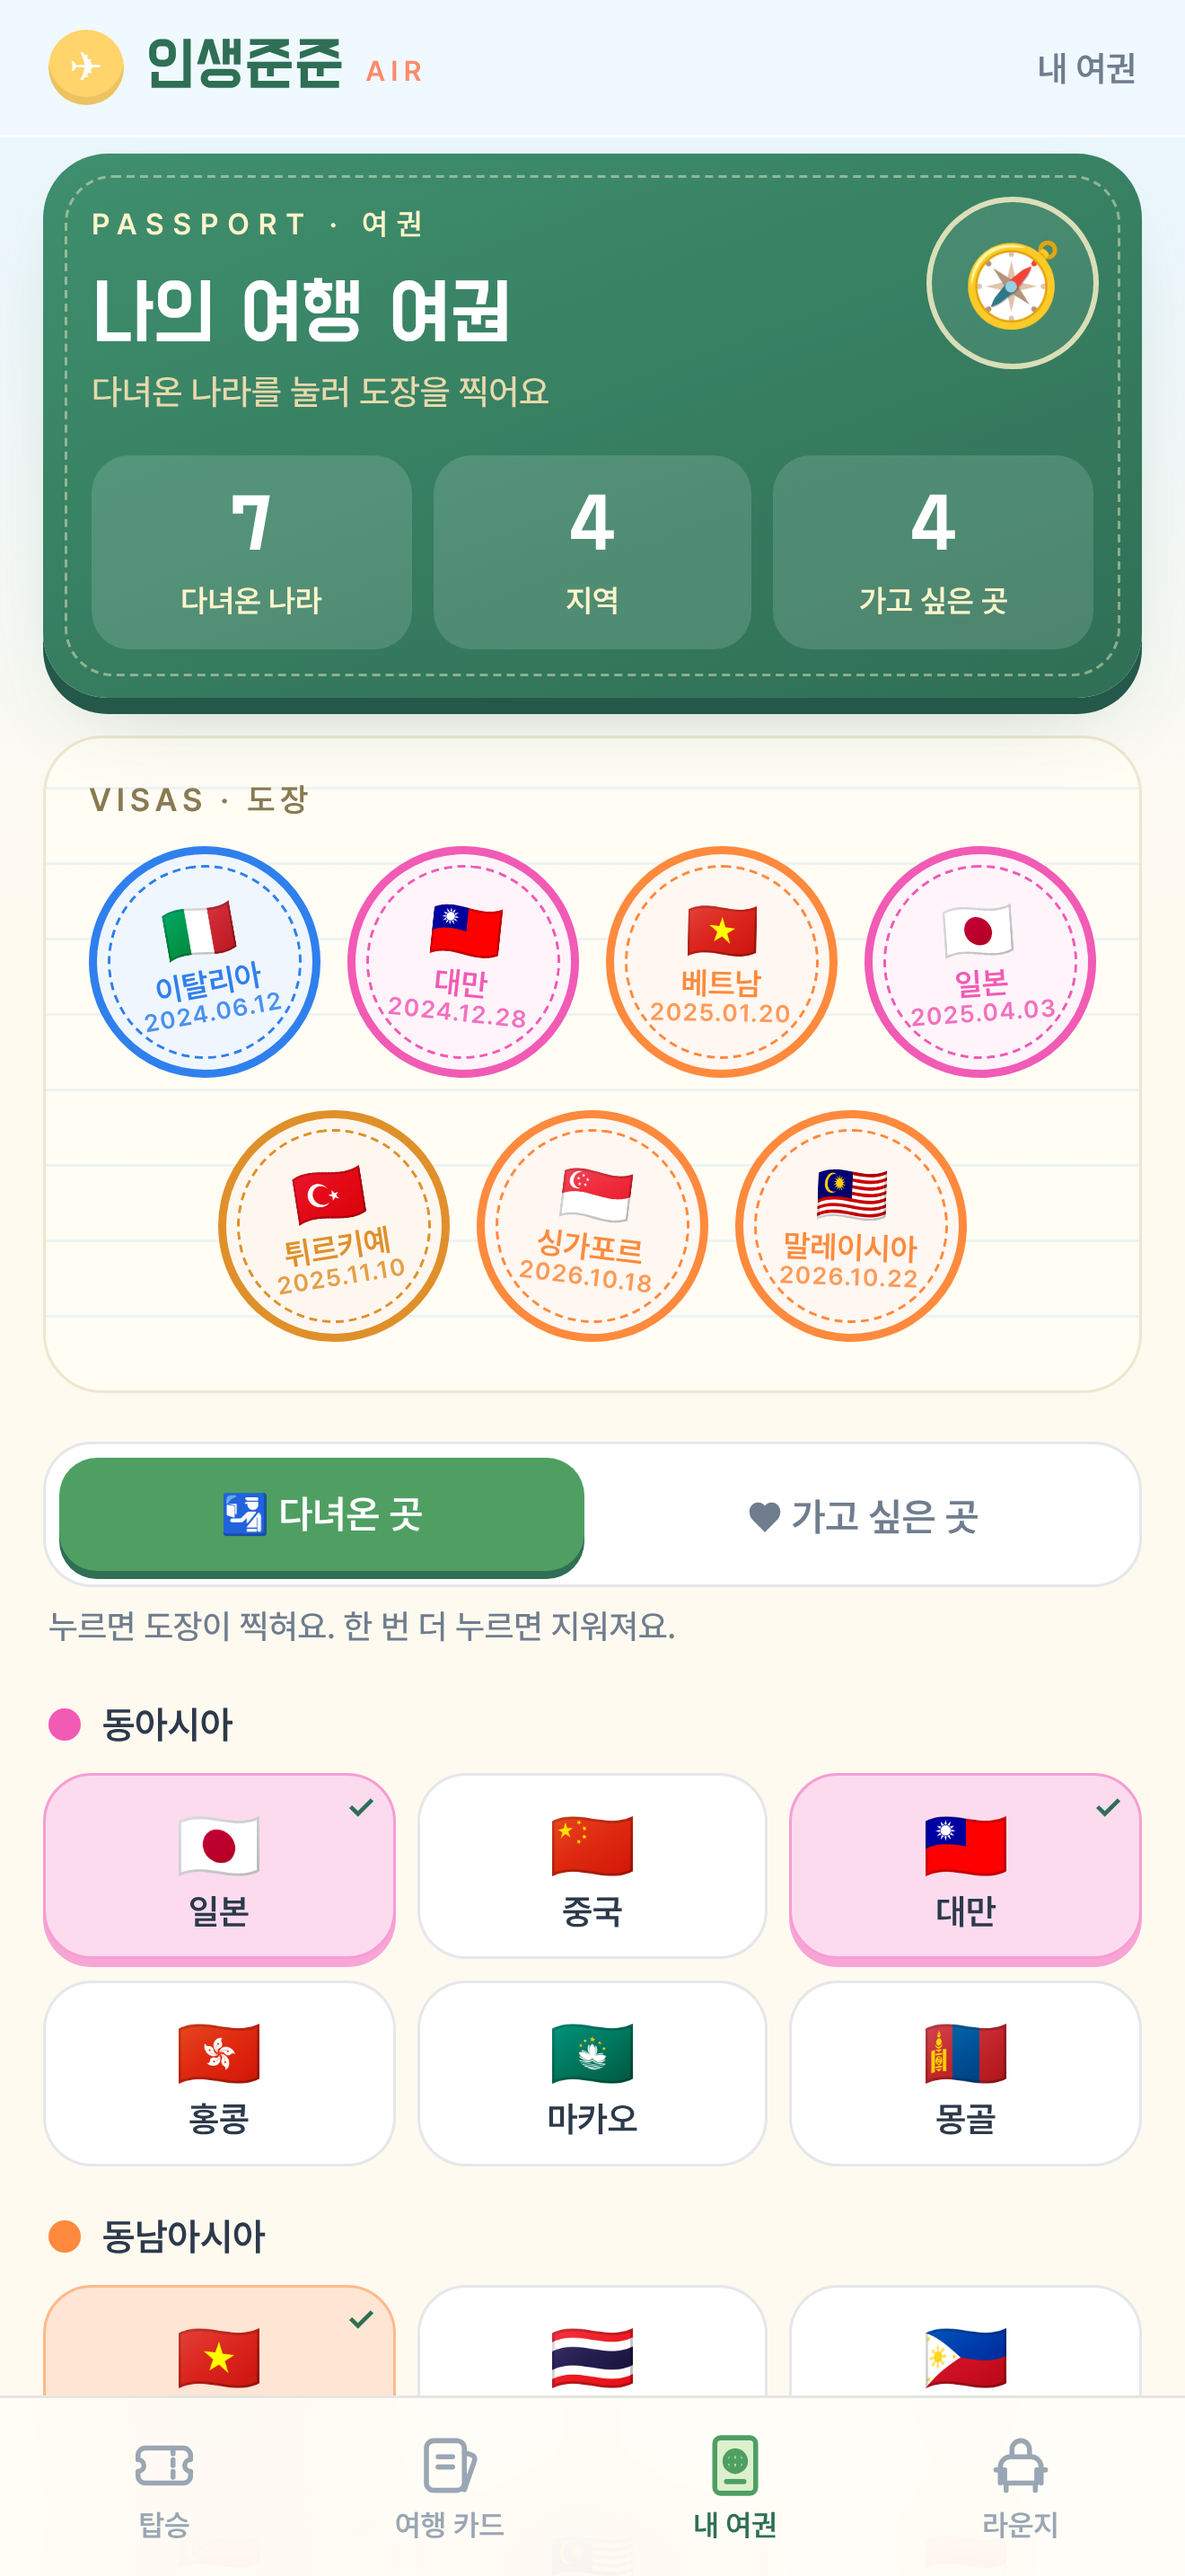
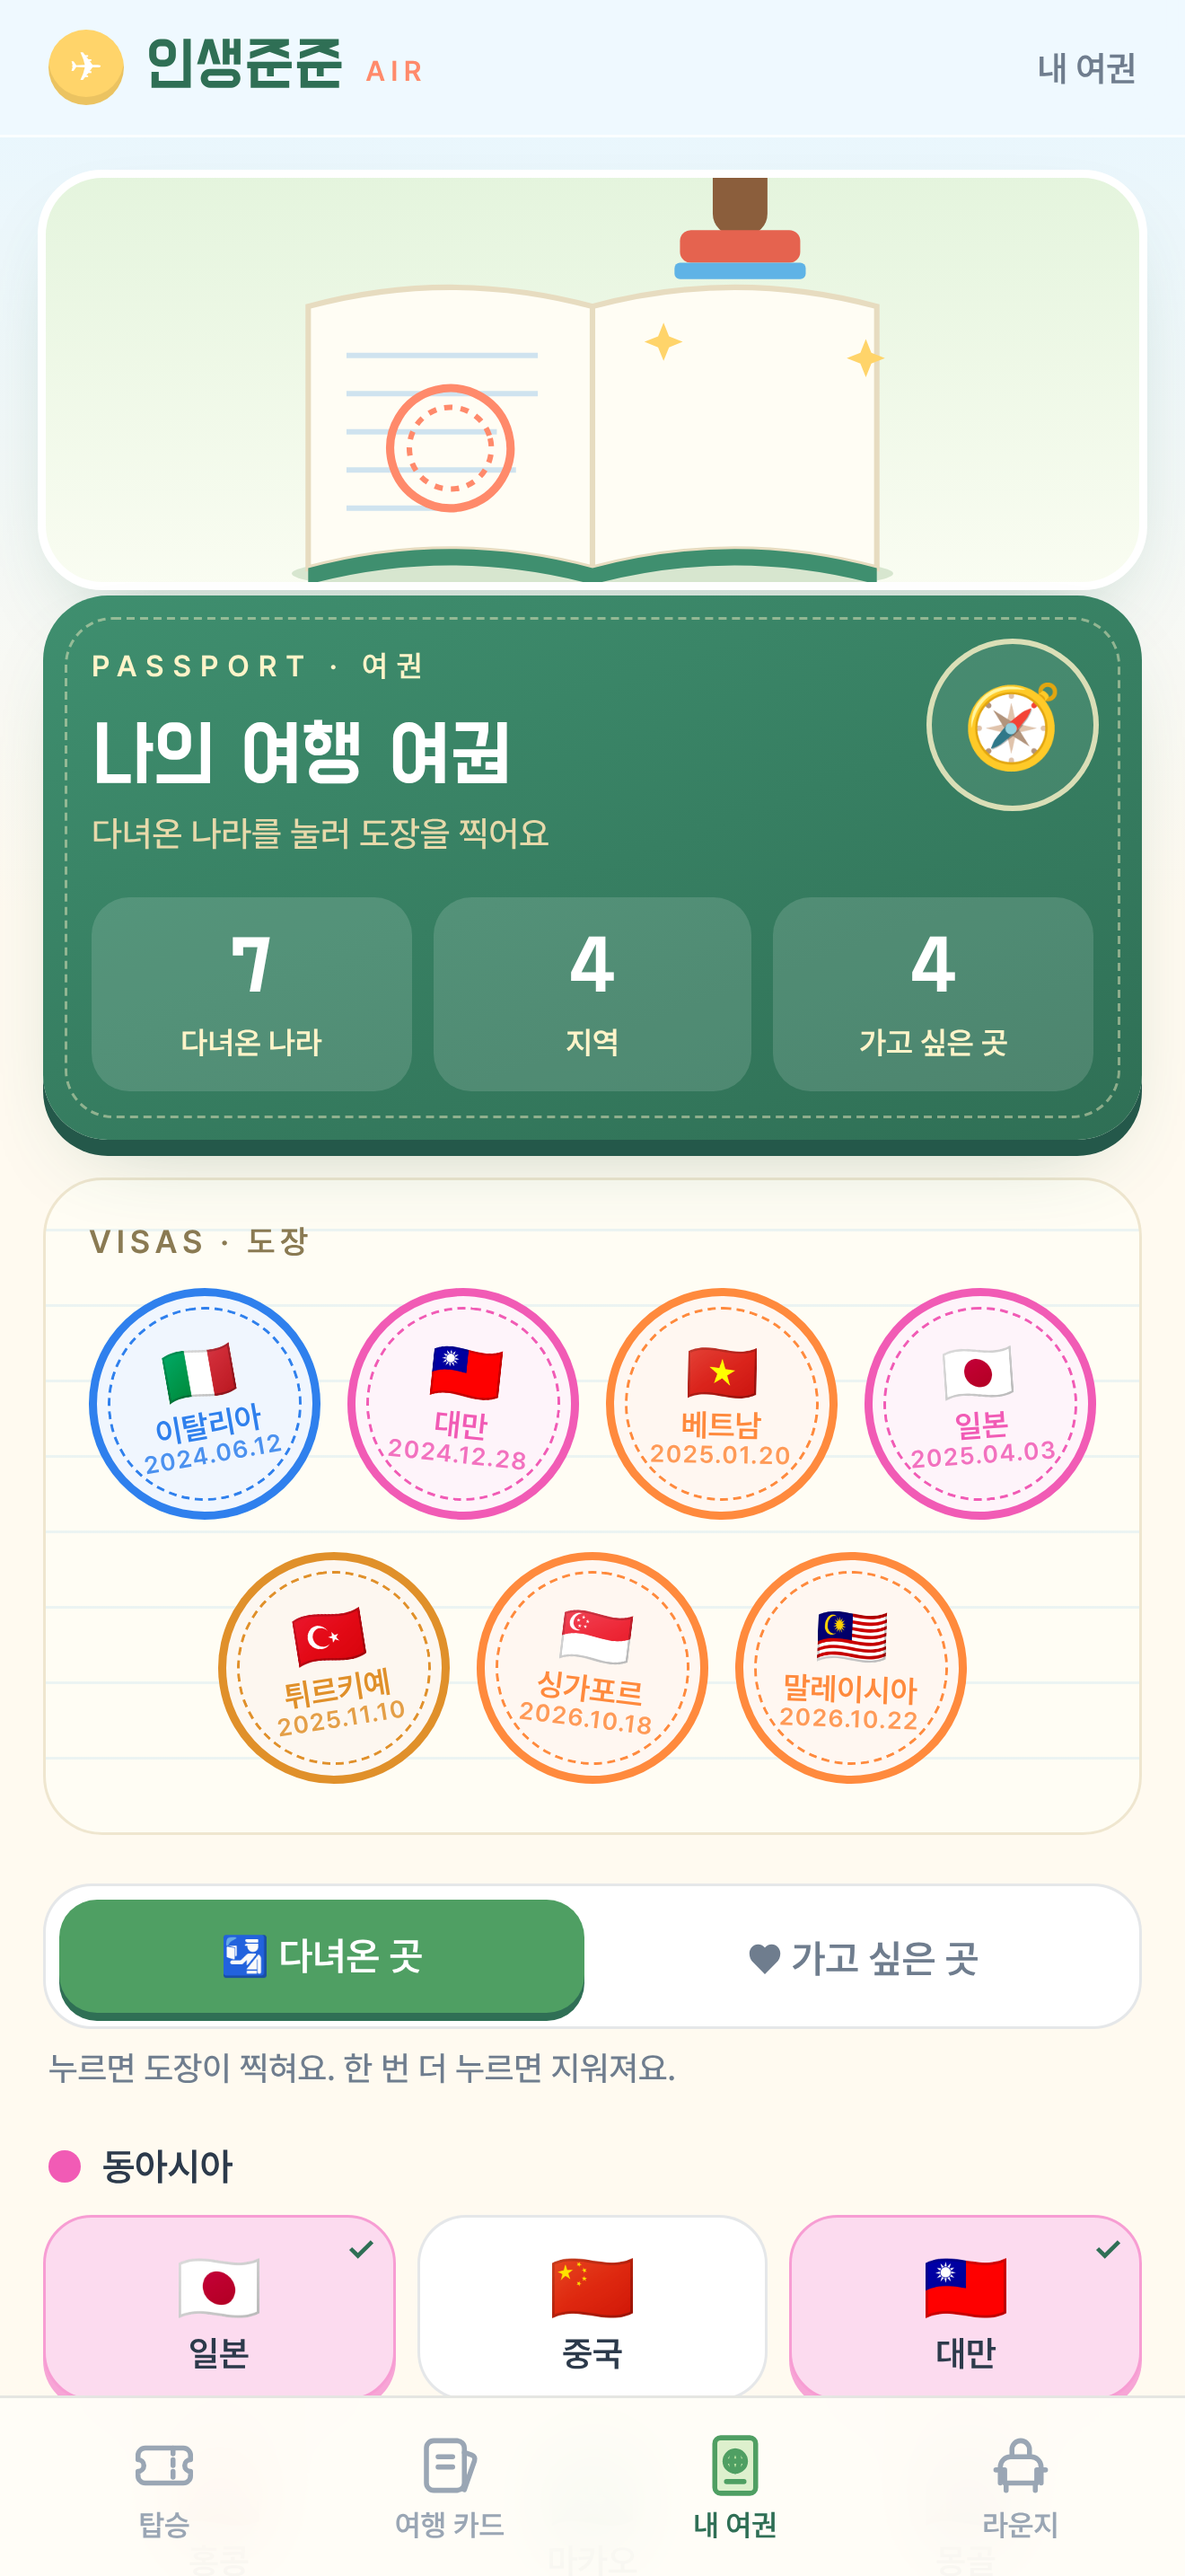
인생준준 앱 고도화: 움직이는 그림(풍경 속 구름·비행기·새·굴뚝 연기, 여행 카드 가방, 여권 도장 찍기, 라운지 열기구), 탑승권 비행기, 상세 구름, 신청 완료 꽃가루, 스크롤 등장
Claude-Session: https://claude.ai/code/session_018b66DNBEchiBczdhfNMBRw

diff --git a/app/src/app.js b/app/src/app.js
@@ -56,12 +56,15 @@
     $("#topTitle").textContent = TITLES[t];
     render(); window.scrollTo(0, 0);
   }
-  function render() {
+  function render(quiet) {
     var v = $("#view");
     if (state.tab === "home") v.innerHTML = viewHome();
     else if (state.tab === "cards") v.innerHTML = viewCards();
     else if (state.tab === "passport") v.innerHTML = viewPassport();
     else v.innerHTML = viewLounge();
+    if (quiet) return;
+    v.classList.remove("enter"); void v.offsetWidth; v.classList.add("enter");
+    reveal(v);
   }
 
   function dday(start) {
@@ -77,6 +80,7 @@
       '<h1>혼자 가긴 무섭고,<br>단체 패키지는 싫다면</h1>' +
       '<p>먼저 공부해 온 길동무와 3~10명이 함께 걷는 작은 여행이에요. 유적은 깊게, 박물관은 천천히, 밥은 현지 사람들이 줄 서는 곳에서.</p>' +
       '<div class="row"><span class="chip">🧭 3명 모이면 출발</span><span class="chip">🙋 혼자 와도 돼요</span><span class="chip">✍ 관심 신청은 결제 아니에요</span></div></div></section>' +
+      '<div class="flyline" aria-hidden="true"><img src="img/fly.svg" alt=""></div>' +
       '<div class="sec-t">탑승 대기 중인 여행 <small>' + t.length + '편</small></div>' +
       '<div class="passes">' + t.map(function (x) {
         return '<button class="pass" data-trip="' + esc(x.id) + '" style="--g1:' + x.grad[0] + ';--g2:' + x.grad[1] + '" aria-label="' + esc(x.country + " 여행 자세히 보기") + '">' +
@@ -98,7 +102,7 @@
     var s = $("#sheet");
     s.style.setProperty("--g1", x.grad[0]); s.style.setProperty("--g2", x.grad[1]);
     s.innerHTML = '<button class="close" data-close aria-label="닫기">✕</button>' +
-      '<div class="d-hero" style="background-image:url(' + esc(x.img) + ')"><img class="clouds" src="img/cloudband.svg" alt=""></div>' +
+      '<div class="d-hero" style="background-image:url(' + esc(x.img) + ')"><img class="clouds c2" src="img/cloudband.svg" alt=""><img class="clouds" src="img/cloudband.svg" alt=""></div>' +
       '<div class="d-body"><div class="d-title"><div class="eyebrow">' + x.flag + ' ' + esc(x.country) + ' · ' + esc(x.city) + '</div><h2>' + esc(x.en) + '</h2><div><span class="chip">' + dday(x.start) + '</span></div></div>' +
       '<div class="meta"><div><div class="k">출발 후보일</div><div class="v">' + esc(x.dates) + '</div></div><div><div class="k">기간</div><div class="v">' + esc(x.nights) + '</div></div><div><div class="k">인원</div><div class="v">' + esc(x.group) + '</div></div></div>' +
       '<div class="d-lead">' + esc(x.lead) + '</div>' +
@@ -113,6 +117,7 @@
       '<div class="credit">사진 · ' + esc(x.credit) + ' — 여행지를 이해하기 위한 자료 사진이에요.</div></div>' +
       '<div class="cta-bar"><button class="btn" data-apply="' + esc(x.id) + '">✈ ' + esc(x.country) + ' 관심 신청하기</button><small>결제 아님 · 이름과 연락처만 · 30초</small></div>';
     s.hidden = false; s.scrollTop = 0; document.body.style.overflow = "hidden";
+    reveal(s);
     try { history.pushState({ sheet: id }, ""); } catch (e) {}
   }
   function faq(q, a) { return '<details><summary>' + esc(q) + '</summary><p>' + esc(a) + '</p></details>'; }
@@ -155,7 +160,7 @@
     if (ok) {
       haptic("ok");
       var applied = store.get("applied", []); if (applied.indexOf(x.id) < 0) applied.push(x.id); store.set("applied", applied);
-      s.innerHTML = '<button class="close" data-close aria-label="닫기">✕</button><div class="d-body done" style="padding-top:calc(var(--st) + 60px)"><div class="big-stamp">신청<br>완료</div>' +
+      s.innerHTML = '<div class="confetti" aria-hidden="true">' + confetti() + '</div><button class="close" data-close aria-label="닫기">✕</button><div class="d-body done" style="padding-top:calc(var(--st) + 60px)"><div class="big-stamp">신청<br>완료</div>' +
         '<h2 class="h1">' + esc(x.country) + ' 탑승 대기 명단에 올렸어요</h2><p class="lede">24시간 안에 남겨주신 연락처로 연락드릴게요. 새 여행 소식은 카카오톡 공지방에서 먼저 받아보세요.</p>' +
         '<div class="alt"><button class="btn" data-url="' + KAKAO + '">💬 카카오톡 공지방</button><button class="btn ghost" data-close>확인</button></div></div>';
     } else {
@@ -168,12 +173,25 @@
     s.scrollTop = 0;
   }
 
+  function confetti() {
+    var c = ["#ff8a6b", "#ffd46a", "#9fd67f", "#5fb3e6", "#b7a6f2", "#f58eaa"], out = "";
+    for (var i = 0; i < 36; i++) out += '<i style="left:' + ((i * 37) % 100) + '%;background:' + c[i % c.length] + ';animation-delay:' + ((i % 9) * 0.08).toFixed(2) + 's;--dx:' + (((i * 53) % 60) - 30) + 'px;--rot:' + ((i * 97) % 360) + 'deg"></i>';
+    return out;
+  }
+
+  /* 화면에 들어올 때 살짝 떠오르기 */
+  var io = window.IntersectionObserver ? new IntersectionObserver(function (es) { es.forEach(function (e) { if (e.isIntersecting) { e.target.classList.add("in"); io.unobserve(e.target); } }); }, { rootMargin: "0px 0px -8% 0px" }) : null;
+  function reveal(root) {
+    if (!io) return;
+    Array.prototype.forEach.call((root || document).querySelectorAll(".pass,.tcard,.see>div,.flow li,.link,.about"), function (el, i) { el.classList.add("rv"); el.style.setProperty("--d", (Math.min(i, 8) * 40) + "ms"); io.observe(el); });
+  }
+
   /* ── 여행 카드 ── */
   function viewCards() {
     var cards = DATA.cards || [], saved = store.get("saved", []);
     var places = ["전체", "저장"].concat(cards.map(function (c) { return c.place; }).filter(function (p, i, a) { return a.indexOf(p) === i; }));
     var list = cards.filter(function (c) { return state.cardFilter === "전체" || (state.cardFilter === "저장" ? saved.indexOf(c.id) > -1 : c.place === state.cardFilter); });
-    return '<h1 class="h1">가기 전에 알면<br>덜 당황하는 것들</h1><p class="lede">나라별 매너·벌금·꿀팁 카드예요. 인터넷이 없어도 열려요. ♥ 를 누르면 저장돼요.</p>' +
+    return '<div class="banner"><img src="img/cards.svg" alt=""></div><h1 class="h1">가기 전에 알면<br>덜 당황하는 것들</h1><p class="lede">나라별 매너·벌금·꿀팁 카드예요. 인터넷이 없어도 열려요. ♥ 를 누르면 저장돼요.</p>' +
       '<div class="filters" role="tablist">' + places.map(function (p) { return '<button role="tab" data-filter="' + esc(p) + '" class="' + (p === state.cardFilter ? "on" : "") + '">' + (p === "저장" ? "♥ 저장 " + saved.length : esc(p)) + '</button>'; }).join("") + '</div>' +
       (list.length ? '<div class="tcards">' + list.map(function (c) {
         var on = saved.indexOf(c.id) > -1;
@@ -189,7 +207,7 @@
     var visited = store.get("visited", {}), wish = store.get("wish", []);
     var codes = Object.keys(visited).filter(function (k) { return CTY[k]; }).sort(function (a, b) { return visited[a] < visited[b] ? -1 : 1; });
     var regions = codes.map(function (k) { return CTY[k].region; }).filter(function (r, i, a) { return a.indexOf(r) === i; });
-    return '<section class="pp-cover"><div class="t">PASSPORT · 여권</div><h2>나의 여행 여권</h2><div style="font-size:13px;color:#e7d9aa">다녀온 나라를 눌러 도장을 찍어요</div><div class="emb" aria-hidden="true">🧭</div>' +
+    return '<div class="banner"><img src="img/passport.svg" alt=""></div><section class="pp-cover"><div class="t">PASSPORT · 여권</div><h2>나의 여행 여권</h2><div style="font-size:13px;color:#e7d9aa">다녀온 나라를 눌러 도장을 찍어요</div><div class="emb" aria-hidden="true">🧭</div>' +
       '<div class="stats"><div><b>' + codes.length + '</b><span>다녀온 나라</span></div><div><b>' + regions.length + '</b><span>지역</span></div><div><b>' + wish.length + '</b><span>가고 싶은 곳</span></div></div></section>' +
       '<div class="page"><h4>VISAS · 도장</h4><div class="stamps">' + (codes.length ? codes.map(function (k, i) {
         var c = CTY[k], d = visited[k];
@@ -217,13 +235,13 @@
       if (i > -1) wish.splice(i, 1); else { wish.push(code); haptic(); toast("♥ " + c.name + " 가고 싶은 곳에 담았어요"); }
       store.set("wish", wish);
     }
-    var y = window.scrollY; render(); window.scrollTo(0, y);
+    var y = window.scrollY; render(true); window.scrollTo(0, y);
   }
 
   /* ── 라운지 ── */
   function viewLounge() {
     function L(icon, bg, t, s, url) { return '<button class="link" data-url="' + url + '"><span class="ic" style="--bg:' + bg + '">' + icon + '</span><span><b>' + t + '</b><small>' + s + '</small></span><span class="arr">↗</span></button>'; }
-    return '<h1 class="h1">라운지</h1><p class="lede">새 여행 소식과 여행 이야기는 여기서 먼저 만나요.</p>' +
+    return '<div class="banner"><img src="img/lounge.svg" alt=""></div><h1 class="h1">라운지</h1><p class="lede">새 여행 소식과 여행 이야기는 여기서 먼저 만나요.</p>' +
       '<div class="links">' +
       L("💬", "linear-gradient(135deg,#fee500,#f5b400)", "카카오톡 공지방", "새 여행·출발 소식을 먼저 받아요", KAKAO) +
       L("📸", "linear-gradient(135deg,#f58529,#dd2a7b,#8134af)", "인스타그램 @lifejunjun", "매일 올라오는 여행 릴스", INSTA) +
@@ -239,7 +257,7 @@
   document.addEventListener("click", function (e) {
     var t = e.target.closest("[data-tab],[data-trip],[data-apply],[data-close],[data-url],[data-filter],[data-save],[data-mode],[data-cty]");
     if (!t) return;
-    if (t.dataset.tab) return setTab(t.dataset.tab);
+    if (t.dataset.tab) { if (t.dataset.tab !== state.tab) haptic(); return setTab(t.dataset.tab); }
     if (t.dataset.trip) { haptic(); return openTrip(t.dataset.trip); }
     if (t.dataset.apply) return openApply(t.dataset.apply);
     if (t.hasAttribute("data-close")) { e.preventDefault(); return closeSheet(); }
@@ -252,9 +270,9 @@
     if (t.dataset.save) {
       var saved = store.get("saved", []), i = saved.indexOf(t.dataset.save);
       if (i > -1) saved.splice(i, 1); else { saved.push(t.dataset.save); haptic(); toast("♥ 카드를 저장했어요"); }
-      store.set("saved", saved); var y = window.scrollY; render(); window.scrollTo(0, y); return;
+      store.set("saved", saved); var y = window.scrollY; render(true); window.scrollTo(0, y); return;
     }
-    if (t.dataset.mode) { state.mode = t.dataset.mode; var y2 = window.scrollY; render(); window.scrollTo(0, y2); return; }
+    if (t.dataset.mode) { state.mode = t.dataset.mode; var y2 = window.scrollY; render(true); window.scrollTo(0, y2); return; }
     if (t.dataset.cty) return toggleCountry(t.dataset.cty);
   });
   window.addEventListener("popstate", function () { if (!$("#sheet").hidden) closeSheet(); });

diff --git a/app/src/app.css b/app/src/app.css
@@ -196,5 +196,28 @@ main{padding:6px calc(16px + var(--sr)) calc(var(--tab-h) + var(--sb) + 28px) ca
 .link .arr{color:var(--muted);font-size:18px}
 .fine{font-size:12px;color:var(--muted);line-height:1.7;margin-top:22px}
 .toast{position:fixed;left:50%;bottom:calc(var(--tab-h) + var(--sb) + 18px);transform:translateX(-50%);z-index:60;padding:11px 18px;border-radius:999px;background:var(--deep);color:#fff;font-weight:800;font-size:14px;box-shadow:0 10px 30px rgba(47,111,85,.35);white-space:nowrap}
-@media (prefers-reduced-motion:reduce){*{animation:none!important}}
+/* 모션 */
+.banner{margin:6px -2px 2px;border-radius:24px;overflow:hidden;border:3px solid #fff;box-shadow:var(--shadow);background:#fff}
+.banner img{display:block;width:100%;height:150px;object-fit:cover}
+.flyline{margin:14px -6px -10px;height:62px}
+.flyline img{display:block;width:100%;height:62px}
+.route i::after{animation:fly 3.2s ease-in-out infinite}
+@keyframes fly{0%{left:4%;opacity:0}12%{opacity:1}85%{opacity:1}100%{left:96%;opacity:0}}
+.pass-img .dday{animation:bob 2.4s ease-in-out infinite}
+@keyframes bob{50%{transform:translateY(-3px)}}
+.d-hero .clouds{animation:drift 9s ease-in-out infinite alternate}
+.d-hero .clouds.c2{opacity:.6;bottom:6px;transform:scaleX(-1);animation:drift2 12s ease-in-out infinite alternate}
+@keyframes drift{from{transform:translateX(-4%) scaleX(1.12)}to{transform:translateX(4%) scaleX(1.12)}}
+@keyframes drift2{from{transform:scaleX(-1.15) translateX(-5%)}to{transform:scaleX(-1.15) translateX(5%)}}
+.brand-mark{animation:spin 6s ease-in-out infinite}
+@keyframes spin{0%,70%{transform:rotate(0)}85%{transform:rotate(-20deg) translateY(-2px)}100%{transform:rotate(0)}}
+main.enter{animation:fadein .35s ease-out}
+@keyframes fadein{from{opacity:0;transform:translateY(8px)}to{opacity:1;transform:none}}
+.rv{opacity:0;transform:translateY(16px)}
+.rv.in{opacity:1;transform:none;transition:opacity .5s ease var(--d,0ms),transform .5s cubic-bezier(.2,.8,.3,1) var(--d,0ms)}
+.confetti{position:fixed;inset:0;pointer-events:none;z-index:6;overflow:hidden}
+.confetti i{position:absolute;top:-12px;width:9px;height:14px;border-radius:3px;animation:fall 2.4s cubic-bezier(.2,.6,.4,1) forwards}
+@keyframes fall{0%{transform:translate(0,0) rotate(0)}100%{transform:translate(var(--dx),105vh) rotate(var(--rot));opacity:.9}}
+.tab.on svg{animation:pop .3s}
+@media (prefers-reduced-motion:reduce){*{animation:none!important;transition:none!important}.rv{opacity:1;transform:none}}
 @media (min-width:700px){main{max-width:720px;margin:0 auto}.passes{grid-template-columns:1fr 1fr}}
